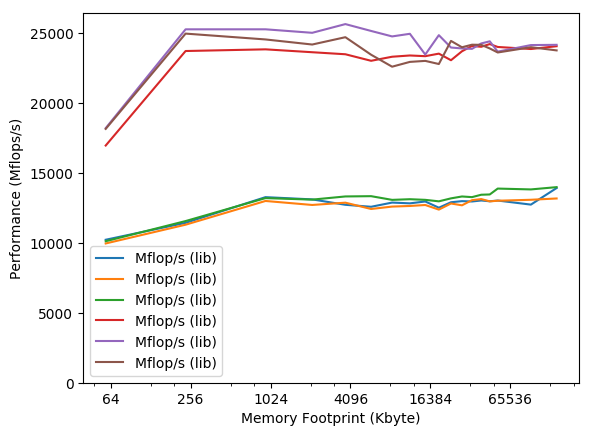
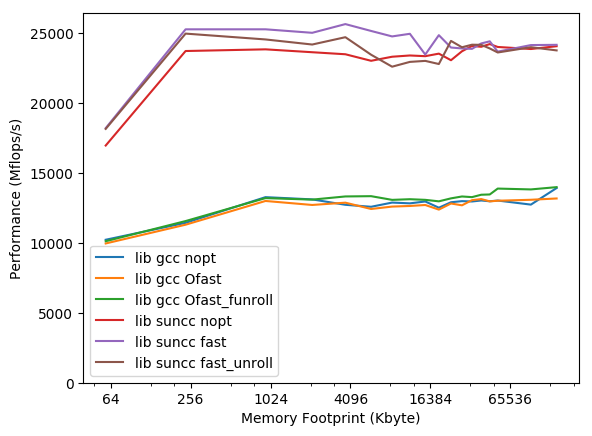
Corrected legends in viz_lib.py

Changed region(s): [[0.152, 0.5665, 0.4865, 0.8647]]

diff --git a/viz_lib.py b/viz_lib.py
@@ -18,22 +18,22 @@ except:
                      
 
 df1 = pd.read_csv('data/gcc/nopt/lib.nopt.gcc.dat',delim_whitespace=True,header=None,
-    names=['memory','Mflop/s (lib)', 'error', 'dummy', 'permutation'])\
+    names=['memory','lib gcc nopt', 'error', 'dummy', 'permutation'])\
     .drop(['dummy','permutation', 'error'],axis=1)                                                    
 df2 = pd.read_csv('data/gcc/Ofast/lib.Ofast.gcc.dat',delim_whitespace=True,header=None,
-    names=['memory','Mflop/s (lib)', 'error', 'dummy', 'permutation'])\
+    names=['memory','lib gcc Ofast', 'error', 'dummy', 'permutation'])\
     .drop(['dummy','permutation', 'error'],axis=1)
 df3 = pd.read_csv('data/gcc/Ofast_loop/lib.Ofast_loop.gcc.dat',delim_whitespace=True,header=None,
-    names=['memory','Mflop/s (lib)', 'error', 'dummy', 'permutation'])\
+    names=['memory','lib gcc Ofast_funroll', 'error', 'dummy', 'permutation'])\
     .drop(['dummy','permutation', 'error'],axis=1)
 df4 = pd.read_csv('data/suncc/nopt/lib.nopt.suncc.dat',delim_whitespace=True,header=None,
-    names=['memory','Mflop/s (lib)', 'error', 'dummy', 'permutation'])\
+    names=['memory','lib suncc nopt', 'error', 'dummy', 'permutation'])\
     .drop(['dummy','permutation', 'error'],axis=1)
 df5 = pd.read_csv('data/suncc/fast/lib.fast.suncc.dat',delim_whitespace=True,header=None,
-    names=['memory','Mflop/s (lib)', 'error', 'dummy', 'permutation'])\
+    names=['memory','lib suncc fast', 'error', 'dummy', 'permutation'])\
     .drop(['dummy','permutation', 'error'],axis=1)
 df6 = pd.read_csv('data/suncc/fast_loop/lib.fast_loop.suncc.dat',delim_whitespace=True,header=None,
-    names=['memory','Mflop/s (lib)', 'error', 'dummy', 'permutation'])\
+    names=['memory','lib suncc fast_unroll', 'error', 'dummy', 'permutation'])\
     .drop(['dummy','permutation', 'error'],axis=1)
         
        	    
